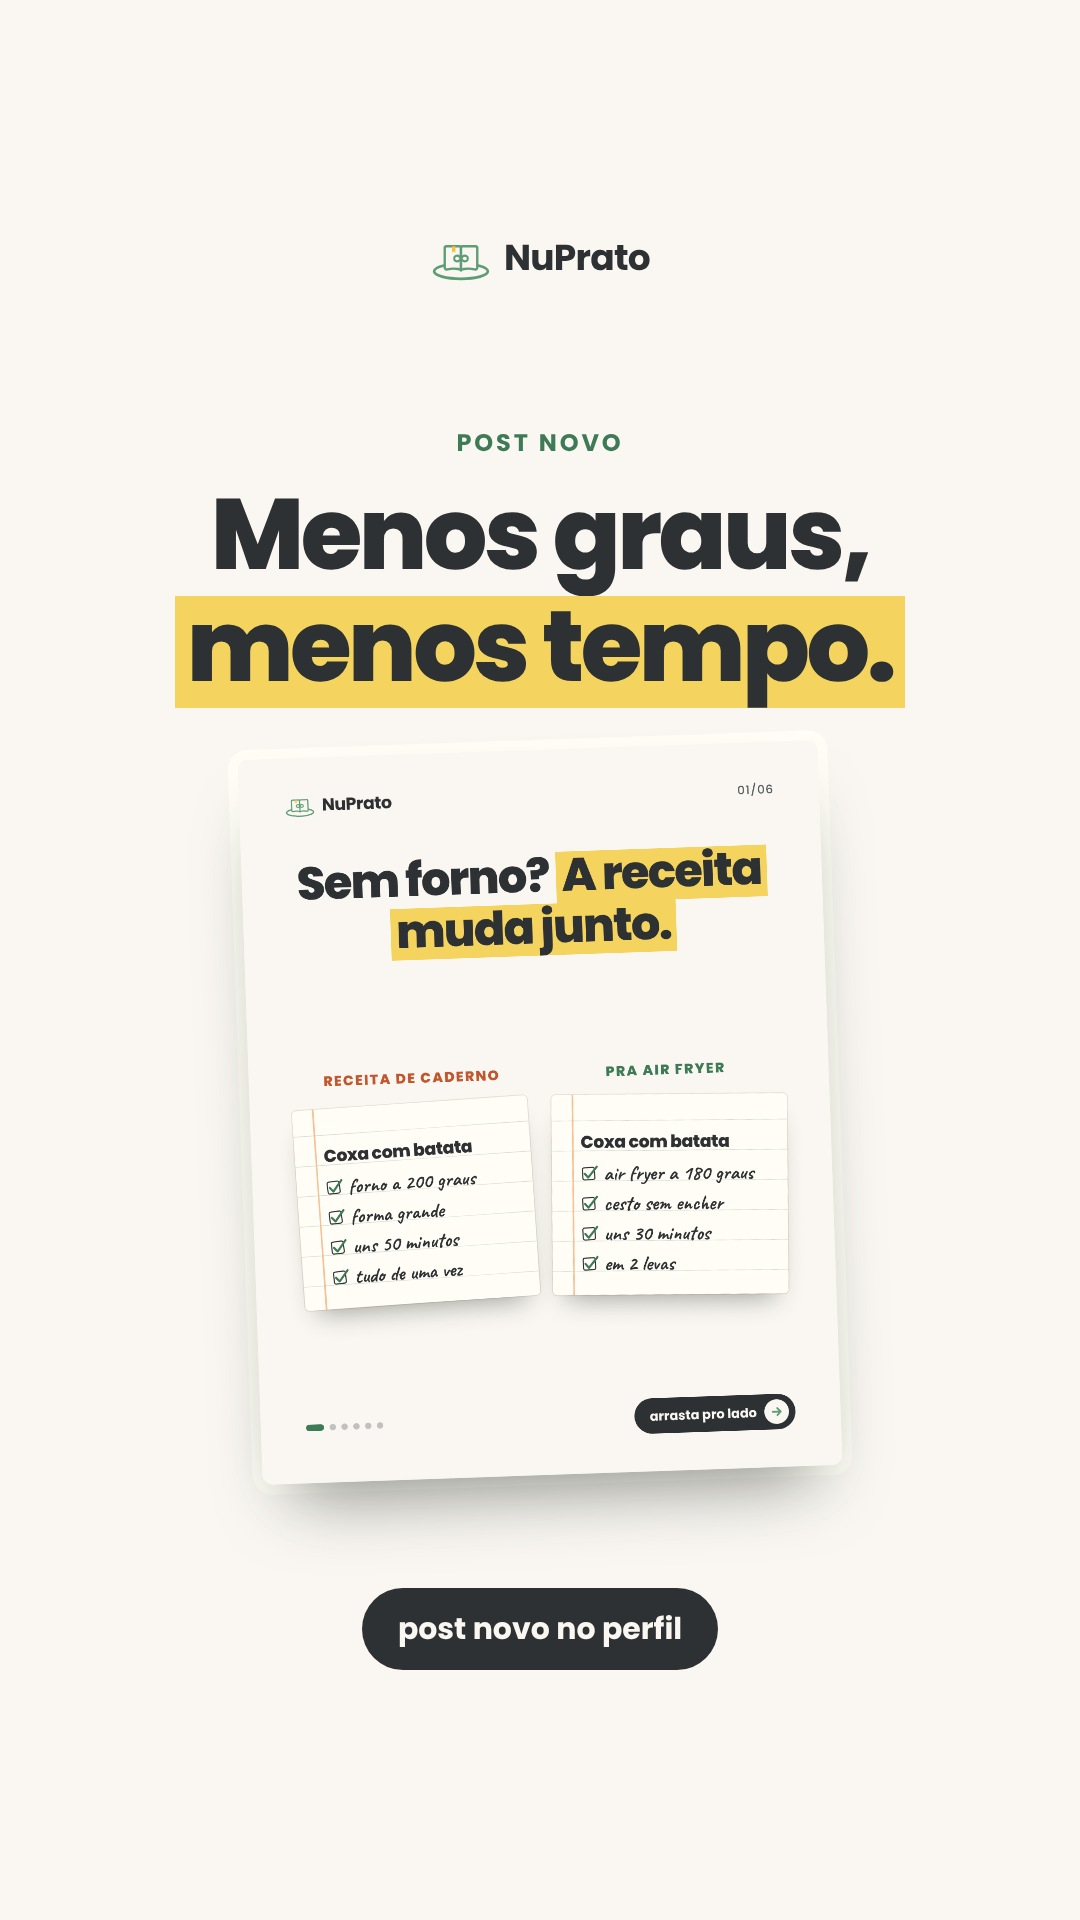
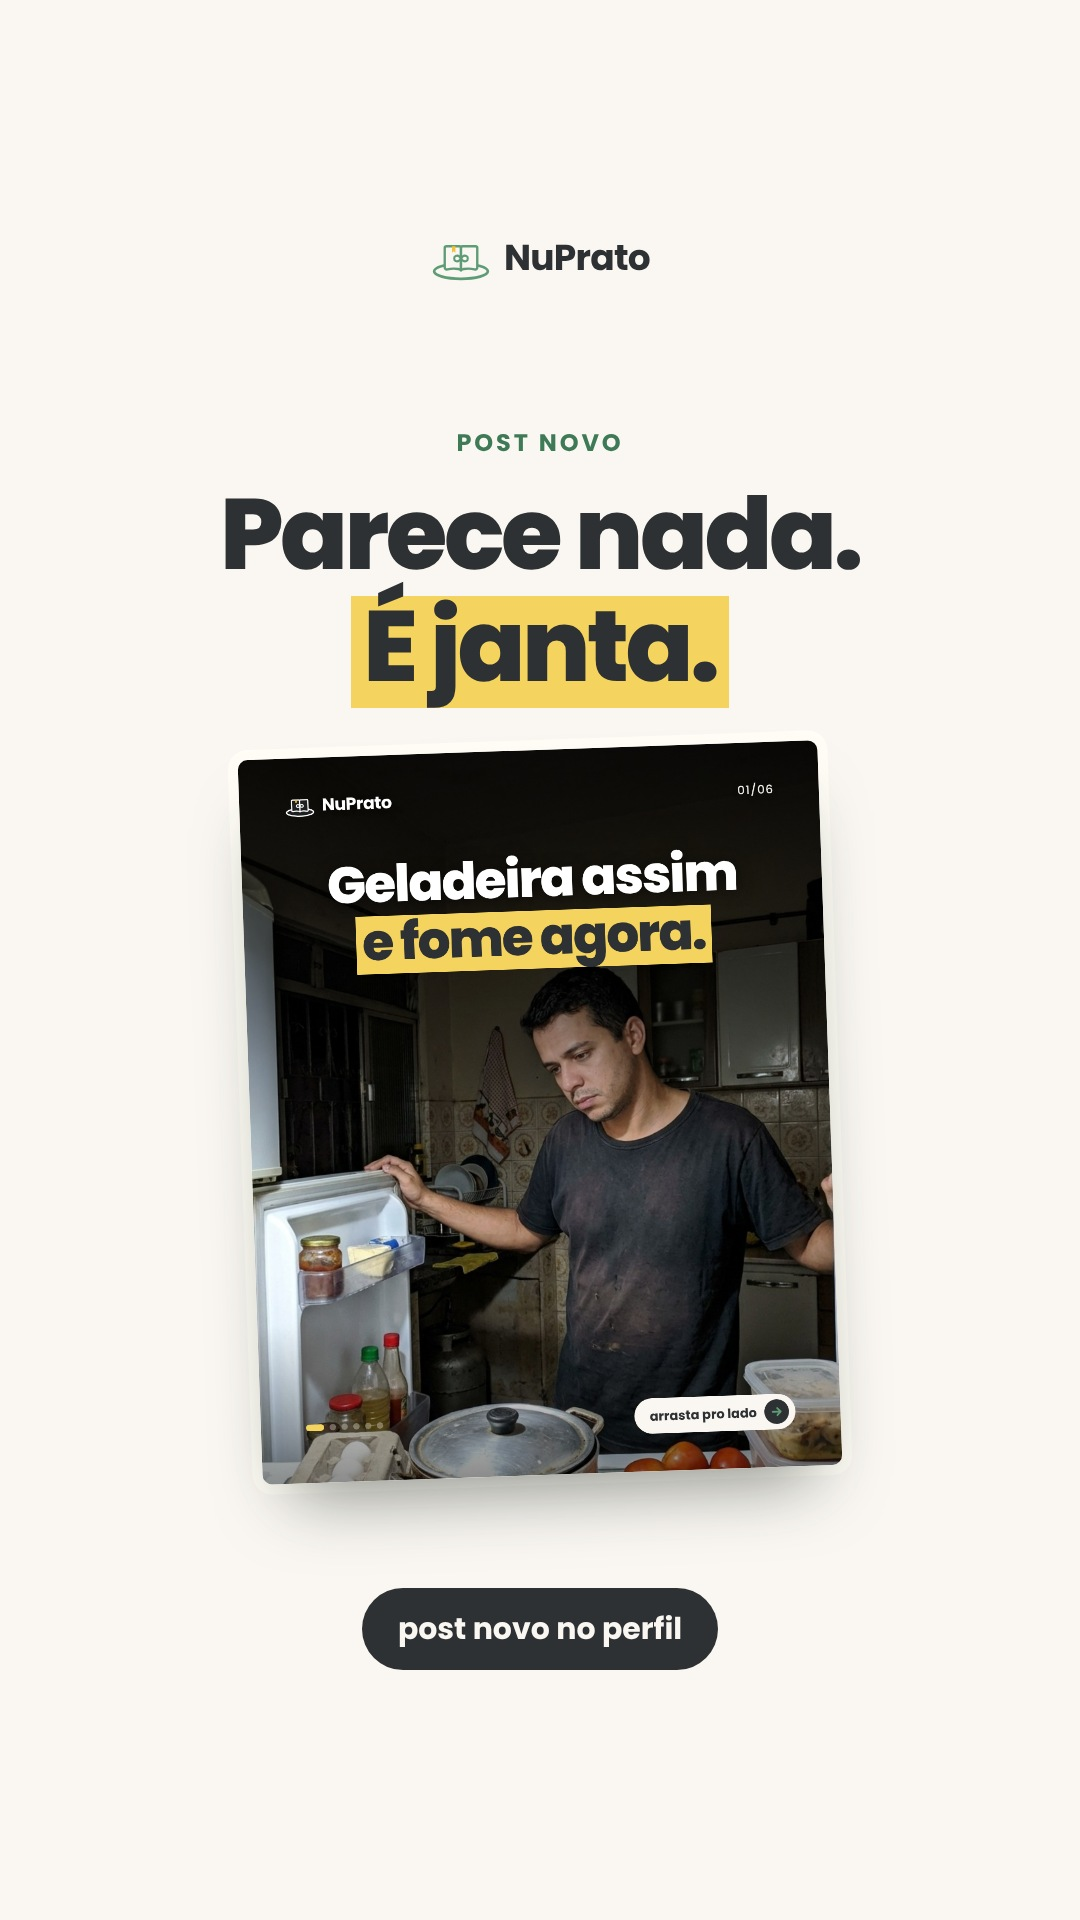
NuPrato: 5 carrosséis com foto (cenas da Kairogen) e stories de qua e sex trocados
Claude-Session: https://claude.ai/code/session_01GjPkSqtEJS4xEoMKyQJtcT

Changed region(s): [[0.1528, 0.25, 0.8556, 0.7812]]

diff --git a/nuprato/motor/posts/fotos_2026_11_09.py b/nuprato/motor/posts/fotos_2026_11_09.py
@@ -1,0 +1,79 @@
+"""Carrosséis com cenas reais (as mesmas geradas na Kairogen pro TikTok, Nano Banana 2.1), semana 09/11.
+Pedido do Matheus em 09/11: 2 posts de feed por dia; parte deles com essas fotos.
+python3 carrossel.py posts/fotos_2026_11_09.py
+"""
+import os as _os, sys; sys.path.insert(0, _os.path.dirname(_os.path.dirname(_os.path.abspath(__file__))))
+from carrossel import ficha
+
+CENAS = _os.path.join(_os.path.dirname(_os.path.dirname(_os.path.dirname(_os.path.abspath(__file__)))), 'tiktok', 'cenas')
+def cena(nome, v=1): return f'{CENAS}/tiktok-carrossel__cena__{nome}__9x16__v{v}.jpg'
+
+FIM = dict(tipo='final', titulo='Bora fazer o seu?', texto='Fala o prato. O NuPrato adapta pra sua cozinha e te guia até o fim.')
+
+POSTS = [
+# 20. Qua 11/11 12:40, mecanismo
+('20-ia-nao-cozinha', [
+    dict(tema='foto', foto=cena('ia-cetica'), fy=30, t=96, titulo='IA não cozinha. <em>Quem cozinha é&nbsp;cê.</em>'),
+    dict(tema='escuro', olho='Então pra que serve?', titulo='Pra resolver <em>o que trava a&nbsp;janta.</em>',
+         texto='Faltou um trem, a receita é pra 6, cê só tem air fryer. É aí que a receita costuma desandar.'),
+    dict(tema='papel', olho='Cê conta assim', titulo='Do jeito que&nbsp;fala.', cima=True,
+         visual=ficha('O que cê quer comer hoje?', ['macarrão ao molho de tomate', 'pra 2 pessoas', 'sem extrato, tenho tomate'], numero='20', rot=1.2)),
+    dict(tema='foto', foto=cena('ia-fogao', 2), fy=55, baixo=True, t=92, titulo='Ela adapta. <em>Cê vai pro&nbsp;fogão.</em>',
+         texto='Passo a passo, do jeito da sua cozinha.'),
+    dict(tema='verde', olho='Como funciona', titulo='Fala o prato. <em>Ela te guia até o&nbsp;fim.</em>',
+         texto='Troca o que falta, ajusta quantidade e tempo e explica o que mudou.'),
+    FIM,
+]),
+
+# 21. Qua 11/11 18:40, dor
+('21-geladeira-quinta', [
+    dict(tema='foto', foto=cena('quinta-geladeira'), fy=40, t=96, titulo='Geladeira assim<br><em>e fome&nbsp;agora.</em>'),
+    dict(tema='creme', titulo='Parece nada. <em>É&nbsp;janta.</em>', t=96, cima=True,
+         visual=ficha('O que tem aqui', [('o', 'ovo'), ('o', 'tomate'), ('o', 'queijo'), ('o', 'meia cebola')], rot=-1.2)),
+    dict(tema='papel', olho='Ovo no molho de tomate', titulo='Uma panela só', cima=True,
+         visual=ficha('Faz assim', ['refoga cebola e tomate picado', 'sal e um pouco de água', 'abre espaço e quebra os ovos', 'tampa até a clara firmar', 'queijo por cima'], numero='21', rot=1)),
+    dict(tema='foto', foto=cena('quinta-sofa'), fy=55, baixo=True, t=88, titulo='Janta no sofá. <em>Sem&nbsp;delivery.</em>'),
+    dict(tema='verde', olho='Como o NuPrato resolve', titulo='Cê conta o que tem. <em>Ele monta o&nbsp;prato.</em>',
+         texto='E troca o que faltar no meio do caminho.'),
+    FIM,
+]),
+
+# 22. Sex 13/11 12:40, dor e comunidade
+('22-sexta-13', [
+    dict(tema='foto', foto=cena('sexta13-fumaca'), fy=35, t=100, titulo='Sexta 13: <em>os sustos da&nbsp;cozinha.</em>'),
+    dict(tema='foto', foto=cena('sexta13-arroz'), fy=45, baixo=True, olho='Susto 1', t=88, titulo='Arroz que <em>virou&nbsp;papa.</em>',
+         texto='Água demais. Destampa, fogo baixo e deixa secar sem mexer.'),
+    dict(tema='foto', foto=cena('sexta13-feijao'), fy=45, baixo=True, olho='Susto 2', t=88, titulo='Feijão <em>pegou no&nbsp;fundo.</em>',
+         texto='Não raspa. Passa o de cima pra outra panela e o gosto de queimado fica pra trás.'),
+    dict(tema='foto', foto=cena('sexta13-tropeiro'), fy=45, baixo=True, olho='Susto 3', t=88, titulo='Tropeiro <em>só de&nbsp;farinha.</em>',
+         texto='Farinha demais, feijão de menos. A farinha entra aos poucos, mexendo.'),
+    dict(tema='escuro', olho='Pra nenhum susto', titulo='Receita guiada <em>passo a&nbsp;passo.</em>',
+         texto='Com o ponto de cada etapa e o que fazer se der errado no meio.', nota='qual foi o seu susto? comenta'),
+    FIM,
+]),
+
+# 23. Sex 13/11 18:40, comunidade
+('23-duvidaram', [
+    dict(tema='foto', foto=cena('namorado-zoando'), fy=45, t=92, titulo='Quando duvidam <em>que cê sabe&nbsp;cozinhar.</em>'),
+    dict(tema='creme', olho='O desafio', titulo='Frango, arroz e<br><em>o que sobrou na&nbsp;geladeira.</em>',
+         texto='Sem receita de caderno e sem ninguém pra ligar.'),
+    dict(tema='escuro', olho='A virada', titulo='Cê fala o que tem.<br><em>O NuPrato guia o&nbsp;resto.</em>',
+         texto='Passo a passo, com a receita adaptada pra sua cozinha.'),
+    dict(tema='foto', foto=cena('namorado-comendo', 2), fy=55, baixo=True, t=84, titulo='Pouco tempo depois: <em>repetiu o&nbsp;prato.</em>'),
+    dict(tema='creme', titulo='Marca quem <em>duvidou de&nbsp;você.</em>', t=100, nota='ou quem sempre repete'),
+    FIM,
+]),
+
+# 24. Dom 15/11 17:40, dor e mecanismo
+('24-domingo', [
+    dict(tema='foto', foto=cena('domingo-mesa'), fy=40, t=96, titulo='Almoço de domingo <em>na sua&nbsp;vez.</em>'),
+    dict(tema='foto', foto=cena('domingo-mae'), fy=40, baixo=True, t=88, titulo='A receita tava <em>na cabeça da&nbsp;mãe.</em>',
+         texto='Um pouco disso, o suficiente daquilo.'),
+    dict(tema='escuro', olho='O problema', titulo='Ninguém <em>anotou&nbsp;nada.</em>',
+         texto='E agora a lasanha é pra 8 pessoas, no forno da sua casa.'),
+    dict(tema='papel', titulo='Cê conta pra quantos. <em>Ele faz a&nbsp;conta.</em>', t=80, cima=True,
+         visual=ficha('Lasanha de domingo', ['pra 8 pessoas', 'carne moída, presunto e queijo', 'forno pequeno: 2 formas'], numero='24', rot=1)),
+    dict(tema='foto', foto=cena('domingo-lasanha'), fy=50, baixo=True, t=96, titulo='Domingo <em>resolvido.</em>'),
+    FIM,
+]),
+]

diff --git a/nuprato/motor/carrossel.py b/nuprato/motor/carrossel.py
@@ -12,6 +12,7 @@ Campos de um card:
   nota   anotação à mão (Caveat) embaixo do título
   carimbo ('MITO','mito') ou ('VERDADE','verdade')
   visual HTML de um dos helpers abaixo
+  foto   caminho de uma cena (foto 9:16 ou 4:5) em tela cheia; use tema='foto'. fy = foco vertical em %, baixo=True = texto embaixo
   t, s   tamanho do título e do texto em px
 """
 import sys, os, html, json, importlib.util, base64
@@ -41,6 +42,7 @@ TEMAS = {
     'papel':  dict(bg=C['papel'], fg=C['grafite'], sec=C['texto_sec'], olho=C['verde_escuro'], logo_fg=C['verde'], mao=C['verde_escuro']),
     'verde':  dict(bg=C['verde'], fg=C['creme'], sec='#E4EFE7', olho=C['amarelo'], logo_fg=C['creme'], mao=C['creme']),
     'escuro': dict(bg=C['grafite'], fg=C['creme'], sec='#C9CCC8', olho=C['amarelo'], logo_fg=C['creme'], mao=C['amarelo']),
+    'foto':   dict(bg='#1d1f20', fg='#FFFFFF', sec='#EDEDE8', olho=C['amarelo'], logo_fg='#FFFFFF', mao=C['amarelo']),
 }
 
 CSS = f"""
@@ -134,6 +136,17 @@ ul.lista{{list-style:none;display:grid;gap:22px;width:100%;text-align:left}}
 ul.lista li{{display:flex;gap:26px;align-items:center;font-size:36px;font-weight:700;line-height:1.22;background:{C['papel']};color:{C['grafite']};border-radius:24px;padding:26px 32px;box-shadow:0 0 0 1.5px #E6E0D4}}
 ul.lista li i{{flex:none;width:60px;height:60px;border-radius:50%;display:grid;place-items:center;font-style:normal;font-weight:800;font-size:30px;background:{C['verde']};color:{C['creme']}}}
 ul.lista li small{{display:block;font-size:27px;font-weight:400;color:{C['texto_sec']};margin-top:6px}}
+/* card de foto (cena real gerada, tela cheia) */
+body.foto{{background-color:#1d1f20;background-size:cover;background-repeat:no-repeat}}
+.sombra{{position:absolute;inset:0;z-index:1;pointer-events:none}}
+.foto h1{{text-shadow:0 4px 28px rgba(0,0,0,.55)}}
+.foto h1 em{{text-shadow:none}}
+.foto .sub{{text-shadow:0 2px 14px rgba(0,0,0,.7);color:#fff}}
+.foto .olho{{text-shadow:0 2px 10px rgba(0,0,0,.6)}}
+.foto .miolo.baixo{{justify-content:flex-end}}
+.foto .marca,.foto .cont{{text-shadow:0 2px 10px rgba(0,0,0,.5)}}
+.foto .arrasta{{background:{C['creme']};color:{C['grafite']}}}
+.foto .arrasta span{{background:{C['grafite']}}}
 /* card final */
 .final .miolo{{justify-content:flex-start}}
 .final .selo{{width:380px;height:380px;margin:6px auto 0;transform:rotate(-8deg);filter:drop-shadow(0 22px 26px rgba(20,40,28,.35))}}
@@ -225,8 +238,17 @@ def pagina(card, i, n):
     centro = ' meio' if (card.get('centro') or (not card.get('visual') and tipo != 'final')) else ''
     cls = tema + (' final' if tipo == 'final' else '')
     grao = GRAO if tema in ('verde', 'escuro') else ''
+    sombra = ''
+    if card.get('foto'):
+        # foto: caminho da cena; fy: foco vertical em % (0 = topo); baixo=True põe o texto embaixo
+        var += f";background-image:url(file://{card['foto']});background-position:center {card.get('fy', 40)}%"
+        baixo = card.get('baixo')
+        g = ('linear-gradient(to top, rgba(0,0,0,.80) 0%, rgba(0,0,0,.45) 34%, rgba(0,0,0,0) 58%), linear-gradient(to bottom, rgba(0,0,0,.45), rgba(0,0,0,0) 22%)' if baixo else
+             'linear-gradient(to bottom, rgba(0,0,0,.78) 0%, rgba(0,0,0,.42) 34%, rgba(0,0,0,0) 58%), linear-gradient(to top, rgba(0,0,0,.45), rgba(0,0,0,0) 22%)')
+        sombra = f'<div class="sombra" style="background:{g}"></div>'
+        centro = ' baixo' if baixo else ''
     return (f'<!doctype html><html><head><meta charset="utf-8"><style>{CSS}</style></head>'
-            f'<body class="{cls}" style="{var}">{grao}{topo}<div class="miolo{centro}">{c}</div>{pe}</body></html>')
+            f'<body class="{cls}" style="{var}">{grao}{sombra}{topo}<div class="miolo{centro}">{c}</div>{pe}</body></html>')
 
 def render(spec_path, so=None):
     """O spec tem SLUG + CARDS (um post) ou POSTS = [(slug, cards), ...] (vários)."""

diff --git a/nuprato/motor/posts/stories_2026_11_09.py b/nuprato/motor/posts/stories_2026_11_09.py
@@ -22,9 +22,9 @@ L = [
  # qua 11:10 frase
  dict(nome='s05-qua-frase', tema='escuro', olho='Do seu jeito', titulo='Receita boa é a que <em>cabe na sua&nbsp;cozinha.</em>', t=96,
       sub='Fogão, forno, air fryer ou panela de pressão: cê conta o que tem.', pe=LB),
- # qua 17:10 anuncia o 16
- dict(nome='s06-qua-post', tema='creme', olho='Post novo', titulo='Menos graus, <em>menos&nbsp;tempo.</em>', t=100,
-      capa=f'{S}/16-sem-forno/01.png', pe=PN),
+ # qua 17:10 anuncia o 21
+ dict(nome='s06-qua-post', tema='creme', olho='Post novo', titulo='Parece nada. <em>É&nbsp;janta.</em>', t=100,
+      capa=f'{S}/21-geladeira-quinta/01.png', pe=PN),
  # qui 11:10 ficha de troca
  dict(nome='s07-qui-ficha', tema='papel', olho='Salva esse', titulo='Sem creme de leite?', t=96,
       visual=ficha('Faz assim', ['requeijão cremoso', 'entra no fim, fogo baixo', 'mexe até ficar cremoso'], rodape='strogonoff aprovado'), pe=MT),
@@ -34,9 +34,9 @@ L = [
  # sex 11:10 frase
  dict(nome='s09-sex-frase', tema='escuro', olho='Antes do delivery', titulo='Mercado às 20h? <em>Abre a geladeira&nbsp;primeiro.</em>', t=92,
       sub='Cê conta o que tem. O NuPrato monta o prato.', pe=LB),
- # sex 17:10 anuncia o 18
- dict(nome='s10-sex-post', tema='creme', olho='Post novo', titulo='Ovo, arroz e meia cebola <em>é&nbsp;janta.</em>', t=88,
-      capa=f'{S}/18-o-que-tem-pra-janta/01.png', pe=PN),
+ # sex 17:10 anuncia o 23
+ dict(nome='s10-sex-post', tema='creme', olho='Post novo', titulo='Marca quem <em>duvidou de&nbsp;você.</em>', t=96,
+      capa=f'{S}/23-duvidaram/01.png', pe=PN),
  # sáb 09:10 oferta com selo
  dict(nome='s11-sab-oferta', tema='verde', selo=True, titulo='Escolhe o prato.<br><em>A 1ª receita guiada é&nbsp;grátis.</em>', t=84, pe=LB),
  # sáb 18:10 anuncia o 19

diff --git a/nuprato/motor/posts/legendas_2026_11_09.md b/nuprato/motor/posts/legendas_2026_11_09.md
@@ -77,3 +77,70 @@ Sem farinha de mandioca, vai de milho. Qual dos 3 cê faz primeiro?
 #reaproveitamento #frango #receitafacil
 
 ALT: Carrossel com 3 pratos pra aproveitar frango que sobrou: farofa de frango, arroz com frango de panela e sanduíche de frango.
+
+## Carrosséis com foto (pedido do Matheus em 09/11)
+
+## 20-ia-nao-cozinha
+IA não cozinha. Quem cozinha é cê.
+
+O que ela faz é resolver o que trava a janta: faltou um trem, a receita é pra 6, cê só tem air fryer.
+
+Cê fala o prato do seu jeito, ela adapta a receita e te guia passo a passo até o prato pronto.
+
+1ª receita guiada grátis no link na bio.
+
+#cozinhacomia #receitafacil
+
+ALT: Carrossel com fotos de uma mulher na cozinha de casa, desconfiada do celular e depois cozinhando, explicando que a IA do NuPrato adapta a receita e quem cozinha é você.
+
+## 21-geladeira-quinta
+Geladeira quase vazia e fome agora? Ovo, tomate, queijo e meia cebola já é janta.
+
+Ovo no molho de tomate, numa panela só: refoga cebola e tomate, abre espaço, quebra os ovos e tampa até a clara firmar. Queijo por cima.
+
+Salva pra próxima quinta.
+
+No NuPrato cê conta o que tem e ele monta o prato. Link na bio.
+
+#receitafacil #comidacaseira #reaproveitamento
+
+ALT: Carrossel com foto de um homem olhando a geladeira à noite, a ficha com ovo, tomate, queijo e cebola, o passo a passo do ovo no molho de tomate e uma mulher jantando no sofá.
+
+## 22-sexta-13
+Sexta 13: os sustos da cozinha.
+
+Arroz que virou papa, feijão que pegou no fundo e tropeiro só de farinha. Cada um tem jeito, desliza pra ver.
+
+Qual foi o seu maior susto na cozinha? Comenta aí.
+
+1ª receita guiada grátis no link na bio.
+
+#dicasdecozinha #comidacaseira
+
+ALT: Carrossel de sexta 13 com fotos de sustos na cozinha: fumaça no fogão, arroz empapado, feijão queimado no fundo da panela e tropeiro seco, com a dica pra cada um.
+
+## 23-duvidaram
+Quando duvidam que cê sabe cozinhar.
+
+Frango, arroz e o que sobrou na geladeira, sem receita de caderno. Cê fala o que tem e o NuPrato guia o resto, passo a passo.
+
+Marca quem duvidou de você. Ou quem sempre repete o prato.
+
+1ª receita guiada grátis no link na bio.
+
+#comidacaseira #receitafacil
+
+ALT: Carrossel com fotos de um casal na cozinha: ele zoando que ela não sabe cozinhar e depois ele comendo e repetindo o prato.
+
+## 24-domingo
+Almoço de domingo na sua vez, e a receita tava na cabeça da mãe.
+
+Ninguém anotou nada e a lasanha agora é pra 8 pessoas, no forno da sua casa. Cê conta pra quantos e o NuPrato faz a conta: quantidade, forma e tempo.
+
+Quem faz o almoço de domingo aí?
+
+1ª receita guiada grátis no link na bio.
+
+#almocodedomingo #comidacaseira #receitafacil
+
+ALT: Carrossel com fotos de um almoço de domingo em família, uma mãe cozinhando e uma lasanha servida, sobre fazer a receita da família pra muita gente.
